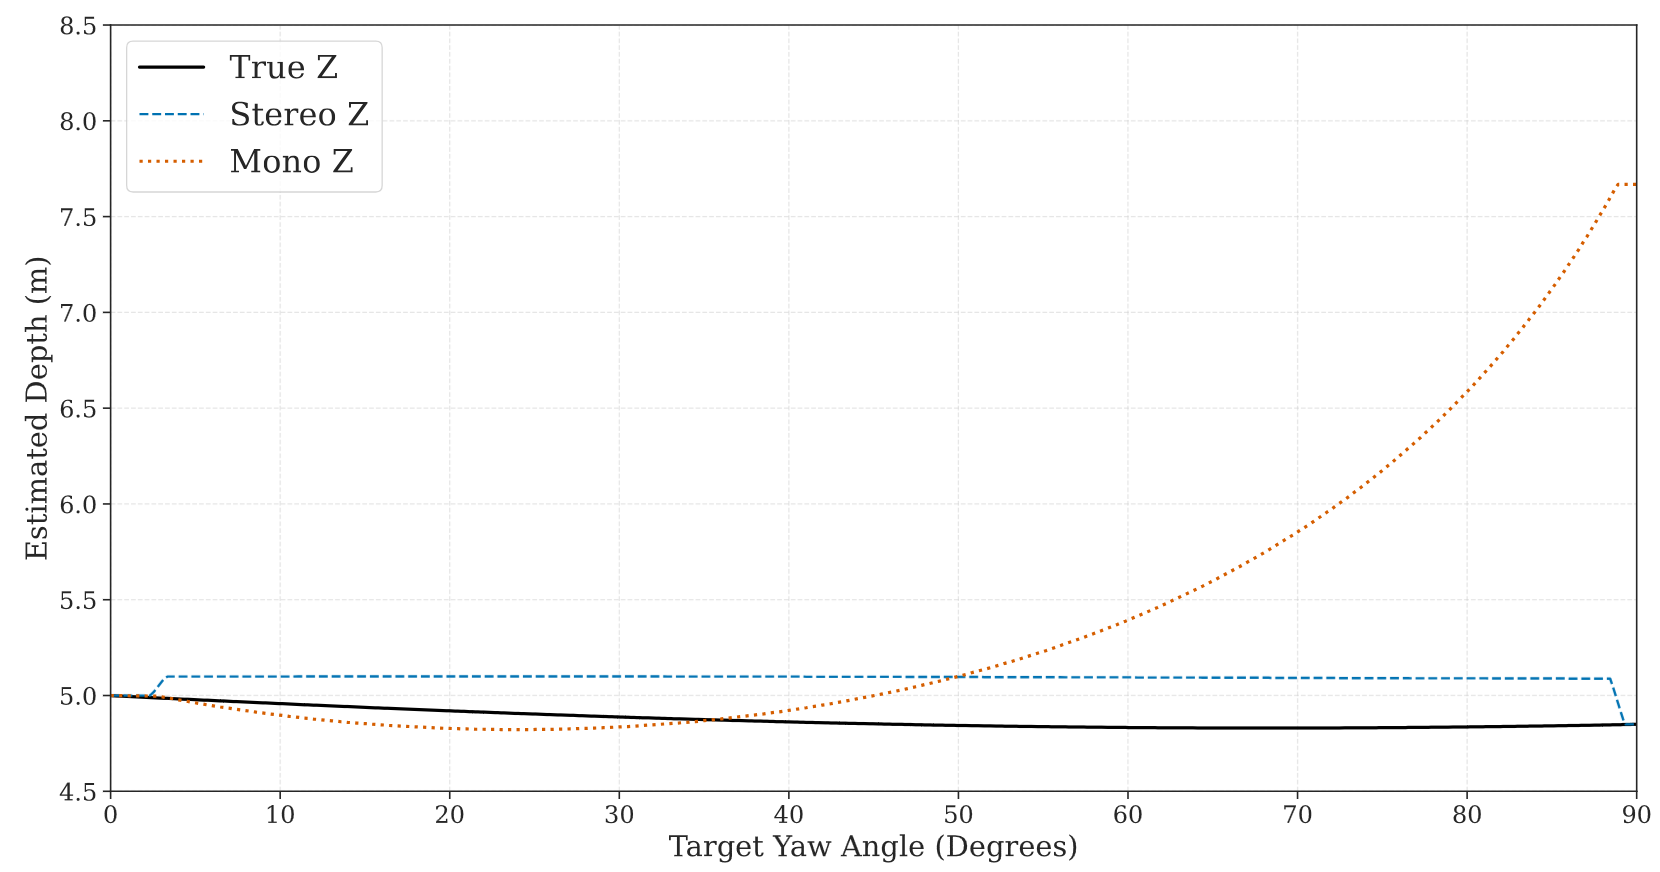
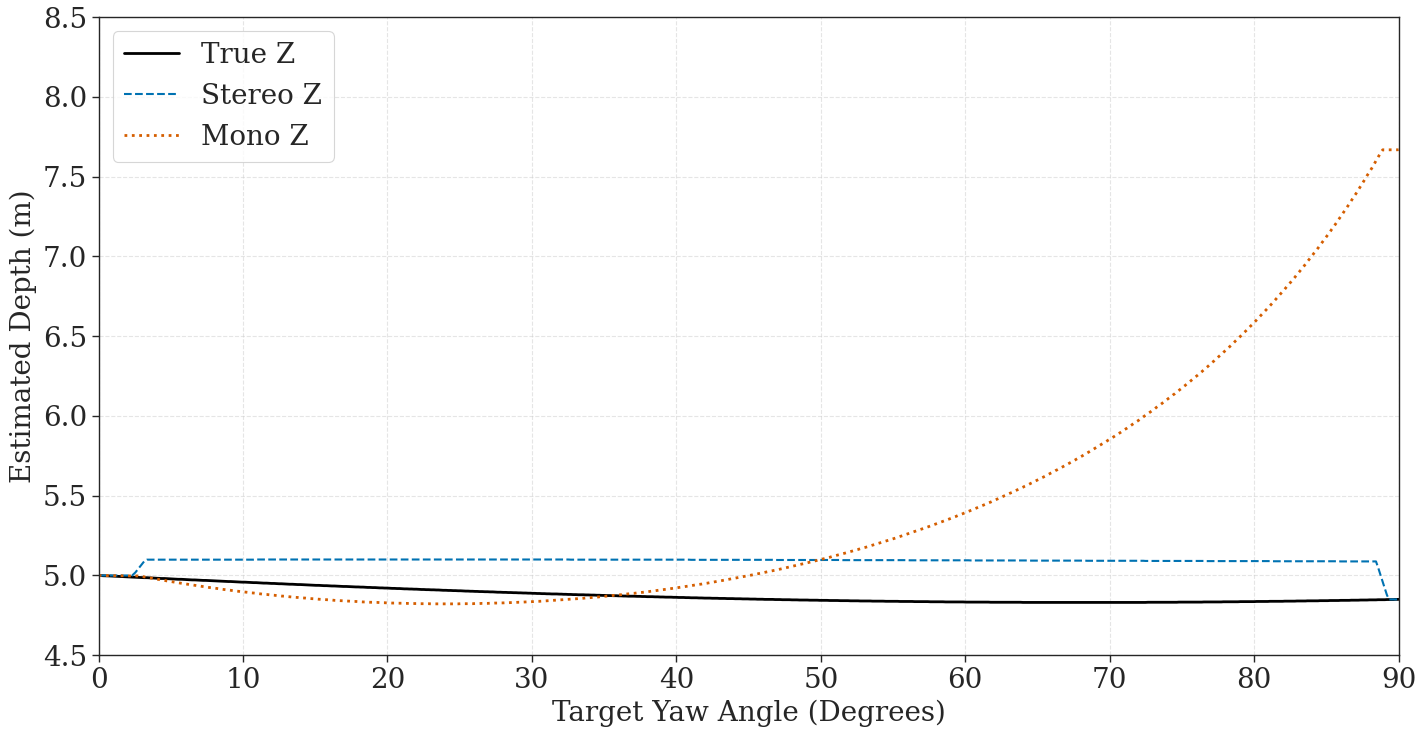
Updates from Overleaf

diff --git a/main.tex b/main.tex
@@ -1453,7 +1453,7 @@ To compare the performance of monocular and stereo depth estimation under geomet
 
 \begin{figure}[htbp]
     \centering
-    \includegraphics[width=0.5\linewidth]{figs/DepthEstimationTests.png}
+    \includegraphics[width=0.65\linewidth]{figs/DepthEstimationTests.png}
     \caption{Overview of the experimental setup comparing monocular and stereo depth estimation under geometric transformations.}
     \label{fig:depth_estimation_test}
 \end{figure}
@@ -1465,12 +1465,10 @@ We began with a baseline calibration and translated the target linearly from 5m 
 
 \begin{figure}[htbp]
     \centering
-    \includegraphics[width=0.4\linewidth]{figs/LinearTranslation_Plot.pdf}
+    \includegraphics[width=0.4\linewidth]{figs/LinearTranslation_Plot.png}
     \caption{Comparison of monocular and stereo depth estimation against physical ground truth during linear translation from 5m to 15m}
     \label{fig:linear_translation}
 \end{figure}
-
-\newpage
 
 \textbf{(ii) Changes in Target Orientation}
 
@@ -1482,7 +1480,7 @@ As the target turns, its 2D profile narrows and the monocular algorithm, which i
 
 \begin{figure}[htbp]
     \centering
-    \includegraphics[width=0.7\linewidth]{figs/YawRotation_Plot.png}
+    \includegraphics[width=0.85\linewidth]{figs/YawRotation_Plot.png}
     \caption{Comparison of depth estimation models during target yaw rotation from $0^\circ$ to $90^\circ$ at a nominal 5.0 m depth.}
     \label{fig:yaw_rotation}
 \end{figure}
@@ -1495,7 +1493,7 @@ This scenario highlights the advantage of the stereo system with the stereo esti
 
 \begin{figure}[htbp]
     \centering
-    \includegraphics[width=0.7\linewidth]{figs/CrouchDeformation_Plot.png}
+    \includegraphics[width=0.85\linewidth]{figs/CrouchDeformation_Plot.png}
     \caption{Comparison of depth estimation models during crouching at a constant physical depth}
     \label{fig:crouch_deformation}
 \end{figure}
@@ -1511,7 +1509,7 @@ The hardware of this system is comprised of a camera array consisting of three c
     
     \begin{subfigure}[b]{\textwidth}
         \centering
-        \includegraphics[width=0.6\textwidth]{figs/sensor_pipeline.pdf}
+        \includegraphics[width=0.65\textwidth]{figs/sensor_pipeline.pdf}
         \caption{}
         \label{fig:pipeline_diagram}
     \end{subfigure}
@@ -1520,14 +1518,14 @@ The hardware of this system is comprised of a camera array consisting of three c
 
     \begin{subfigure}[b]{0.48\textwidth}
         \centering
-        \includegraphics[width=0.7\textwidth]{figs/1_RGB.png}
+        \includegraphics[width=0.8\textwidth]{figs/1_RGB.png}
         \caption{}
         \label{fig:rgb_data}
     \end{subfigure}
     \hfill
     \begin{subfigure}[b]{0.48\textwidth}
         \centering
-        \includegraphics[width=0.7\textwidth]{figs/2_DepthMap.png}
+        \includegraphics[width=0.8\textwidth]{figs/2_DepthMap.png}
         \caption{}
         \label{fig:depth_data}
     \end{subfigure}
@@ -1603,7 +1601,7 @@ To quantify the model's convergence during training, loss and precision metrics 
     \label{fig:visdrone_training_results}
 \end{figure}
 
-To determine the most effective confidence threshold for deployment, the F1-Confidence curve was evaluated (Fig. \ref{fig:visdrone_f1_curve}). The F1 score represents the harmonic mean of precision and recall. The figure shows that the model reaches its peak F1 score of 0.53 at a confidence threshold of 0.272. Hence, we set the system to this specific threshold in order to achieve the best operational balance between minimising false positives (incorrectly classifying background noise as a player) and preventing false negatives (failing to detect a valid target).         
+To determine the most effective confidence threshold for deployment, the F1-Confidence curve was evaluated (Fig. \ref{fig:visdrone_f1_curve}). The F1 score represents the harmonic mean of precision and recall. The figure shows that the model reaches its peak F1 score of 0.53 at a confidence threshold of 0.249. Hence, we set the system to this specific threshold in order to achieve the best operational balance between minimising false positives (incorrectly classifying background noise as a player) and preventing false negatives (failing to detect a valid target).         
 
 \begin{figure}[htbp]
     \centering
@@ -1742,7 +1740,7 @@ To ensure the resulting bounding boxes only encompass visually exposed regions, 
         \caption{}
         \label{fig:raycast_game}
     \end{subfigure}
-    \caption{Visualisation of the automated annotation and occlusion logic. Left (a): The 3D spatial environment demonstrating the raycasts, where red lines indicate vertices blocked by physical cover. Right (b): The corresponding 2D rendered frame, demonstrating bounding boxes that encapsulate only the unoccluded geometry.}
+    \caption{Visualisation of the automated annotation and occlusion logic. (a) The 3D spatial environment demonstrating the raycasts, where red lines indicate vertices blocked by physical cover. (b) The corresponding 2D rendered frame, demonstrating bounding boxes that encapsulate only the unoccluded geometry.}
     \label{fig:raycast_validation}
 \end{figure}
 
@@ -1773,7 +1771,7 @@ Beyond theoretical convergence, we determined the operational threshold for the 
     \label{fig:synthetic_f1_curve}
 \end{figure}
 
-The curve demonstrates that the synthetic model reaches a peak F1 score of 0.94 at a confidence threshold of 0.524. Because the synthetic pipeline generates mathematically consistent features and ground-truth coordinates, the network achieves a high peak confidence within its own domain. Consequently, the deployment inference threshold within the Unity Sentis tensor engine was configured to this 0.524 value. Setting the threshold at this peak ensures the system effectively balances the detection of valid targets against the rejection of simulated background noise.
+The curve demonstrates that the synthetic model reaches a peak F1 score of 0.95 at a confidence threshold of 0.508. Because the synthetic pipeline generates mathematically consistent features and ground-truth coordinates, the network achieves a high peak confidence within its own domain. Consequently, the deployment inference threshold within the Unity Sentis tensor engine was configured to this 0.508 value. Setting the threshold at this peak ensures the system effectively balances the detection of valid targets against the rejection of simulated background noise.
 
 Finally, a visual inspection of the validation holdout set was conducted. As demonstrated in the sample validation predictions (Fig. \ref{fig:synthetic_val_preds}), the model successfully adapts to the severe algorithmic occlusions and varied lighting conditions generated by the Unity pipeline.
 
